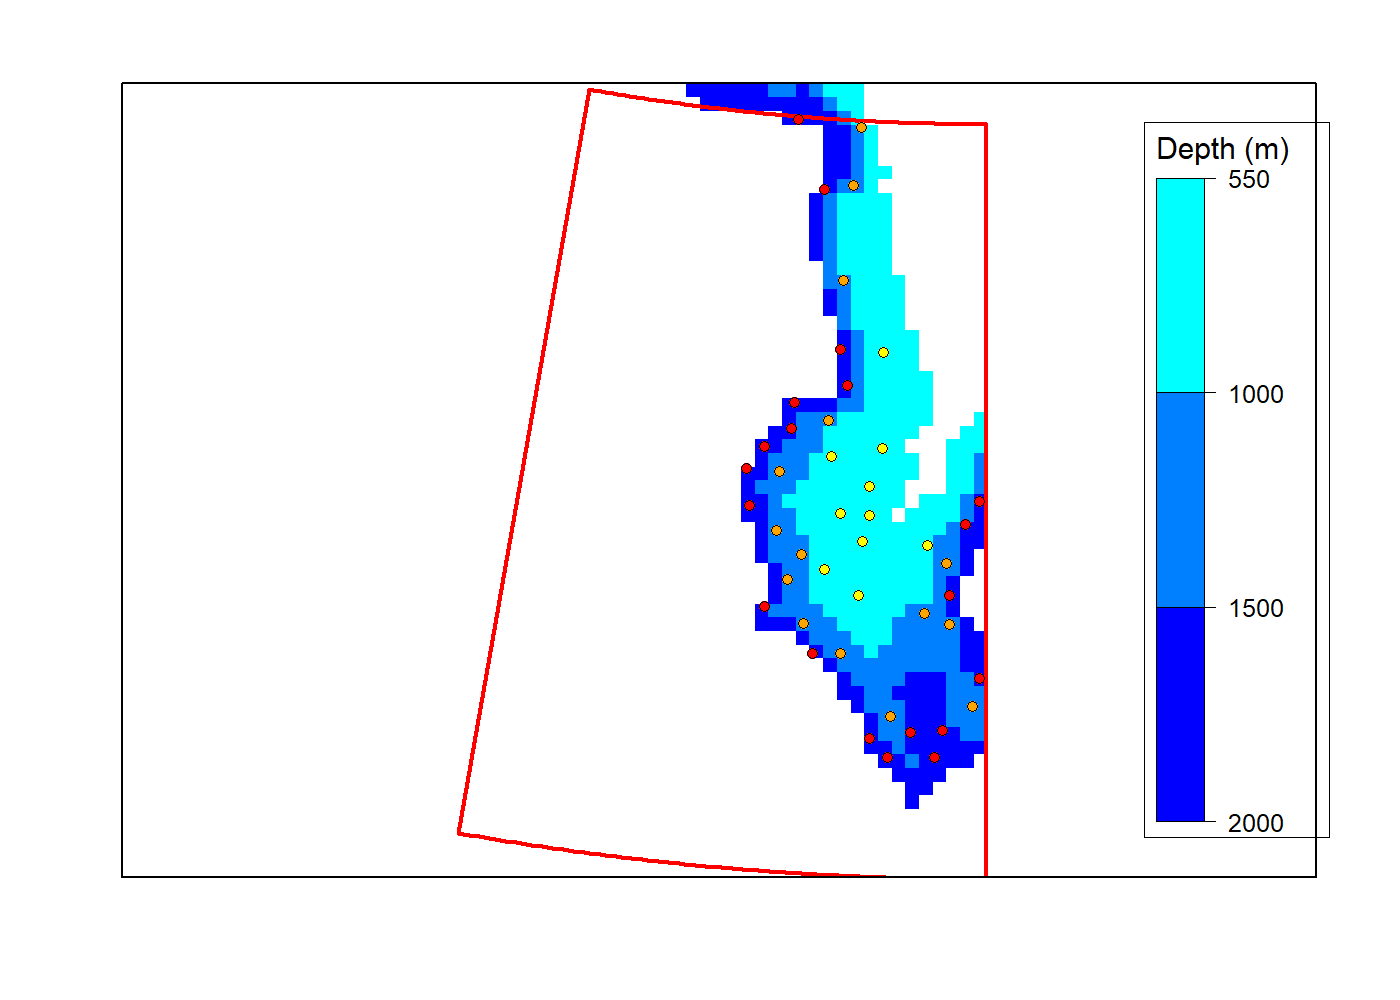
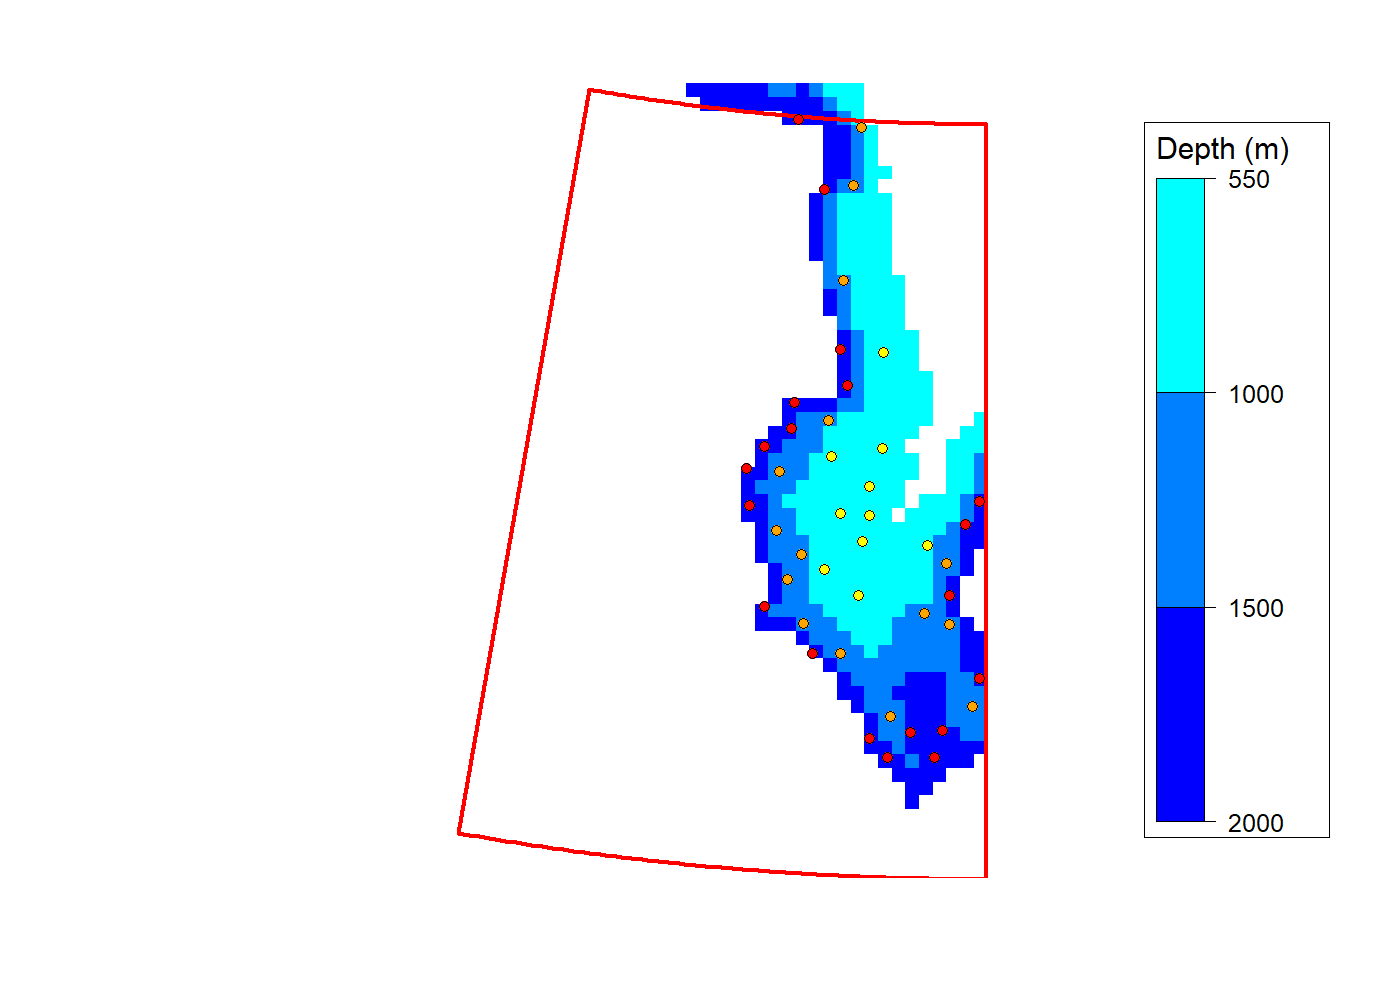
sf/terra updates

diff --git a/README.md b/README.md
@@ -6,13 +6,40 @@
 This package was developed to simplify the production of maps in the
 CCAMLR Convention Area. It provides two categories of functions: load
 functions and create functions. Load functions are used to import
-spatial layers from the online CCAMLR GIS (<http://gis.ccamlr.org/>)
-such as the ASD boundaries. Create functions are used to create layers
-from user data such as polygons and grids.
+spatial layers from the online [CCAMLR GIS](http://gis.ccamlr.org/) such
+as the ASD boundaries. Create functions are used to create layers from
+user data such as polygons and grids.
 
-This package relies on the [sf
+<center>
+
+#### Note on V4 update:
+
+</center>
+
+Due to the retirement of some packages that the CCAMLRGIS package use to
+rely on, since CCAMLRGIS V4.0.0 the package relies on the [sf
 package](https://CRAN.R-project.org/package=sf), users may need to
-familiarize themselves with it.
+familiarize themselves with it. For those that were using older
+versions, the main difference is in plotting commands.
+
+Plotting a spatial object X used to be:
+
+``` r
+plot(X)
+```
+
+Since V4, it will be:
+
+``` r
+plot(st_geometry(X))
+```
+
+Using *sf* objects has advantages such as the ability to use [Tidyverse
+methods](https://r-spatial.github.io/sf/reference/tidyverse.html).
+Further, additional [plotting
+methods](https://r-spatial.github.io/sf/articles/sf5.html) are
+available, some of which are described in section 5.5. [Using
+sf](#55-using-sf).
 
 ## Installation
 
@@ -40,33 +67,34 @@ install.packages("CCAMLRGIS")
 
 ------------------------------------------------------------------------
 
-1.  [Basemaps](#basemaps)
-2.  [Create functions](#create-functions)
+1.  [Basemaps](#1-basemaps)
+2.  [Create functions](#2-create-functions)
 
 -   2.1. [Points](#create-points), [lines](#create-lines),
     [polygons](#create-polygons) and [grids](#create-grids)
--   2.2. [Create Stations](#create-stations)
--   2.3. [Create Pies](#create-pies)
+-   2.2. [Create Stations](#22-create-stations)
+-   2.3. [Create Pies](#23-create-pies)
 
-3.  [Load functions](#load-functions)
+3.  [Load functions](#3-load-functions)
 
 -   3.1. Online use
 -   3.2. Offline use
 
 4.  Other functions
 
--   4.1. [get_depths](#get_depths)
--   4.2. [seabed_area](#seabed_area)
--   4.3. [assign_areas](#assign_areas)
--   4.4. [project_data](#project_data)
--   4.5. [get_C\_intersection](#get_C_intersection)
+-   4.1. [get_depths](#41-get_depths)
+-   4.2. [seabed_area](#42-seabed_area)
+-   4.3. [assign_areas](#43-assign_areas)
+-   4.4. [project_data](#44-project_data)
+-   4.5. [get_C\_intersection](#45-get_c_intersection)
 
 5.  Adding colors, legends and labels
 
--   5.1. [Bathymetry colors](#bathymetry-colors)
--   5.2. [Adding colors to data](#adding-colors-to-data)
--   5.3. [Adding legends](#adding-legends)
--   5.4. [Adding labels](#adding-labels)
+-   5.1. [Bathymetry colors](#51-bathymetry-colors)
+-   5.2. [Adding colors to data](#52-adding-colors-to-data)
+-   5.3. [Adding legends](#53-adding-legends)
+-   5.4. [Adding labels](#54-adding-labels)
+-   5.5. [Using sf](#55-using-sf)
 
 ------------------------------------------------------------------------
 
@@ -85,7 +113,7 @@ library(CCAMLRGIS)
 ```
 
 In order to plot bathymetry data, you will also need to load
-\[terra\]:<https://CRAN.R-project.org/package=terra> :
+[terra](https://CRAN.R-project.org/package=terra):
 
 ``` r
 library(terra)
@@ -472,7 +500,7 @@ MyPoly=create_Polys(
 par(mai=c(0,0,0,0))
 plot(st_geometry(Coast[Coast$ID=='88.1',]),col='grey')
 plot(st_geometry(MyPoly),col='green',add=T)
-text(MyPolys$Labx,MyPolys$Laby,MyPolys$ID)
+text(MyPoly$Labx,MyPoly$Laby,MyPoly$ID)
 box()
 ```
 
@@ -486,16 +514,13 @@ BathyCroped=crop(rast(SmallBathy),ext(MyPoly))
 
 #Create stations
 MyStations=create_Stations(MyPoly,BathyCroped,Depths=c(-2000,-1500,-1000,-550),N=c(20,15,10))
-#Set the figure margins as c(bottom, left, top, right)
-par(mai=c(0.1,0.1,0.1,0.1))
 
 #add custom colors to the bathymetry to indicate the strata of interest
 MyCols=add_col(var=c(-10000,10000),cuts=c(-2000,-1500,-1000,-550),cols=c('blue','cyan'))
 plot(BathyCroped,breaks=MyCols$cuts,col=MyCols$cols,legend=F,axes=F)
 add_Cscale(height=90,fontsize=0.75,width=16,lwd=0.5,offset=-130,cuts=MyCols$cuts,cols=MyCols$cols)
-plot(st_geometry(MyPoly),add=T,border='red',lwd=2)
+plot(st_geometry(MyPoly),add=T,border='red',lwd=2,xpd=T)
 plot(st_geometry(MyStations),add=T,col='orange',cex=0.75,lwd=1.5,pch=3)
-box()
 ```
 
 <img src="README-Fig12-1.png" width="100%" style="display: block; margin: auto;" />
@@ -506,18 +531,15 @@ Example 2. Set numbers of stations, with distance constraint:
 #Create Stations
 MyStations=create_Stations(MyPoly,BathyCroped,
                            Depths=c(-2000,-1500,-1000,-550),N=c(20,15,10),dist=10)
-#Set the figure margins as c(bottom, left, top, right)
-par(mai=c(0,0,0,0))
 
 #add custom colors to the bathymetry to indicate the strata of interest
 MyCols=add_col(var=c(-10000,10000),cuts=c(-2000,-1500,-1000,-550),cols=c('blue','cyan'))
 plot(BathyCroped,breaks=MyCols$cuts,col=MyCols$cols,legend=F,axes=F)
 add_Cscale(height=90,fontsize=0.75,width=16,lwd=0.5,offset=-130,cuts=MyCols$cuts,cols=MyCols$cols)
-plot(st_geometry(MyPoly),add=T,border='red',lwd=2)
+plot(st_geometry(MyPoly),add=T,border='red',lwd=2,xpd=T)
 plot(st_geometry(MyStations[MyStations$Stratum=='1000-550',]),pch=21,bg='yellow',add=T,cex=0.75,lwd=0.1)
 plot(st_geometry(MyStations[MyStations$Stratum=='1500-1000',]),pch=21,bg='orange',add=T,cex=0.75,lwd=0.1)
 plot(st_geometry(MyStations[MyStations$Stratum=='2000-1500',]),pch=21,bg='red',add=T,cex=0.75,lwd=0.1)
-box()
 ```
 
 <img src="README-Fig13-1.png" width="100%" style="display: block; margin: auto;" />
@@ -527,18 +549,15 @@ Example 3. Automatic numbers of stations, with distance constraint:
 ``` r
 #Create Stations
 MyStations=create_Stations(MyPoly,BathyCroped,Depths=c(-2000,-1500,-1000,-550),Nauto=30,dist=10)
-#Set the figure margins as c(bottom, left, top, right)
-par(mai=c(0,0,0,0))
 
 #add custom colors to the bathymetry to indicate the strata of interest
 MyCols=add_col(var=c(-10000,10000),cuts=c(-2000,-1500,-1000,-550),cols=c('blue','cyan'))
 plot(BathyCroped,breaks=MyCols$cuts,col=MyCols$cols,legend=F,axes=F)
 add_Cscale(height=90,fontsize=0.75,width=16,lwd=0.5,offset=-130,cuts=MyCols$cuts,cols=MyCols$cols)
-plot(st_geometry(MyPoly),add=T,border='red',lwd=2)
+plot(st_geometry(MyPoly),add=T,border='red',lwd=2,xpd=T)
 plot(st_geometry(MyStations[MyStations$Stratum=='1000-550',]),pch=21,bg='yellow',add=T,cex=0.75,lwd=0.1)
 plot(st_geometry(MyStations[MyStations$Stratum=='1500-1000',]),pch=21,bg='orange',add=T,cex=0.75,lwd=0.1)
 plot(st_geometry(MyStations[MyStations$Stratum=='2000-1500',]),pch=21,bg='red',add=T,cex=0.75,lwd=0.1)
-box()
 ```
 
 <img src="README-Fig14-1.png" width="100%" style="display: block; margin: auto;" />
@@ -989,16 +1008,16 @@ head(PointData)
 #> 6 -66.35370  153.6906  four 78.65576      22 6
 #Generate a dataframe with random locations
 MyData=project_data(Input=PointData,NamesIn=c('Lat','Lon'),
-                    NamesOut=c('Projected_Y','Projectd_X'),append=TRUE)
+                    NamesOut=c('Projected_Y','Projected_X'),append=TRUE)
 #The output data looks like this:
 head(MyData)
-#>         Lat       Lon  name    Catch Nfishes n Projected_Y Projectd_X
-#> 1 -68.63966 -175.0078   one 53.33002     460 1    -2361962 -206321.41
-#> 2 -67.03475 -178.0322   two 38.66385     945 2    -2545119  -87445.72
-#> 3 -65.44164 -170.1656   two 20.32608     374 3    -2680488 -464656.29
-#> 4 -68.36806  151.0247   two 69.81201      87 4    -2100218 1162986.84
-#> 5 -63.89171  154.4327 three 52.32101     552 5    -2606157 1246832.20
-#> 6 -66.35370  153.6906  four 78.65576      22 6    -2349505 1161675.96
+#>         Lat       Lon  name    Catch Nfishes n Projected_Y Projected_X
+#> 1 -68.63966 -175.0078   one 53.33002     460 1    -2361962  -206321.41
+#> 2 -67.03475 -178.0322   two 38.66385     945 2    -2545119   -87445.72
+#> 3 -65.44164 -170.1656   two 20.32608     374 3    -2680488  -464656.29
+#> 4 -68.36806  151.0247   two 69.81201      87 4    -2100218  1162986.84
+#> 5 -63.89171  154.4327 three 52.32101     552 5    -2606157  1246832.20
+#> 6 -66.35370  153.6906  four 78.65576      22 6    -2349505  1161675.96
 ```
 
 ### 4.5. get_C\_intersection
@@ -1164,6 +1183,8 @@ add_Cscale(title='Sum of Catch (t)',cuts=Gridcol$cuts,cols=Gridcol$cols,width=22
      fontsize=0.75,lwd=1) 
 ```
 
+<img src="README-Fig20-1.png" width="100%" style="display: block; margin: auto;" />
+
 ### 5.3. Adding legends
 
 To add a legend, use the base *legend()* function:
@@ -1192,7 +1213,7 @@ BathyCr=crop(rast(SmallBathy),extend(ext(MyPoints),100000))
 #Plot the bathymetry
 plot(BathyCr,breaks=Depth_cuts,col=Depth_cols,legend=F,axes=F,mar=c(0,0,0,7))
 #Add a color scale
-add_Cscale(pos='1/2',height=50,maxVal=-1,minVal=-4000,fontsize=0.75,lwd=1,width=16)
+add_Cscale(pos='3/8',height=50,maxVal=-1,minVal=-4000,fontsize=0.75,lwd=1,width=16)
 
 #Plot points with different symbols and colors (see ?points)
 Psymbols=c(21,22,23,24)
@@ -1203,7 +1224,7 @@ plot(st_geometry(MyPoints[MyPoints$name=='three',]),pch=Psymbols[3],bg=Pcolors[3
 plot(st_geometry(MyPoints[MyPoints$name=='four',]),pch=Psymbols[4],bg=Pcolors[4],add=T)
 
 #Add legend with position determined by add_Cscale
-Loc=add_Cscale(pos='2/2',height=40,mode='Legend')
+Loc=add_Cscale(pos='7/8',height=40,mode='Legend')
 legend(Loc,legend=c('one','two','three','four'),
        title='Vessel',pch=Psymbols,pt.bg=Pcolors,xpd=T,
        box.lwd=1,cex=0.75,pt.cex=1,y.intersp=1.5)
@@ -1267,3 +1288,5 @@ plot(SmallBathy)
 plot(st_geometry(ASDs),add=T)
 add_labels(mode='input',LabelTable=MyLabels)
 ```
+
+### 5.5. Using sf
